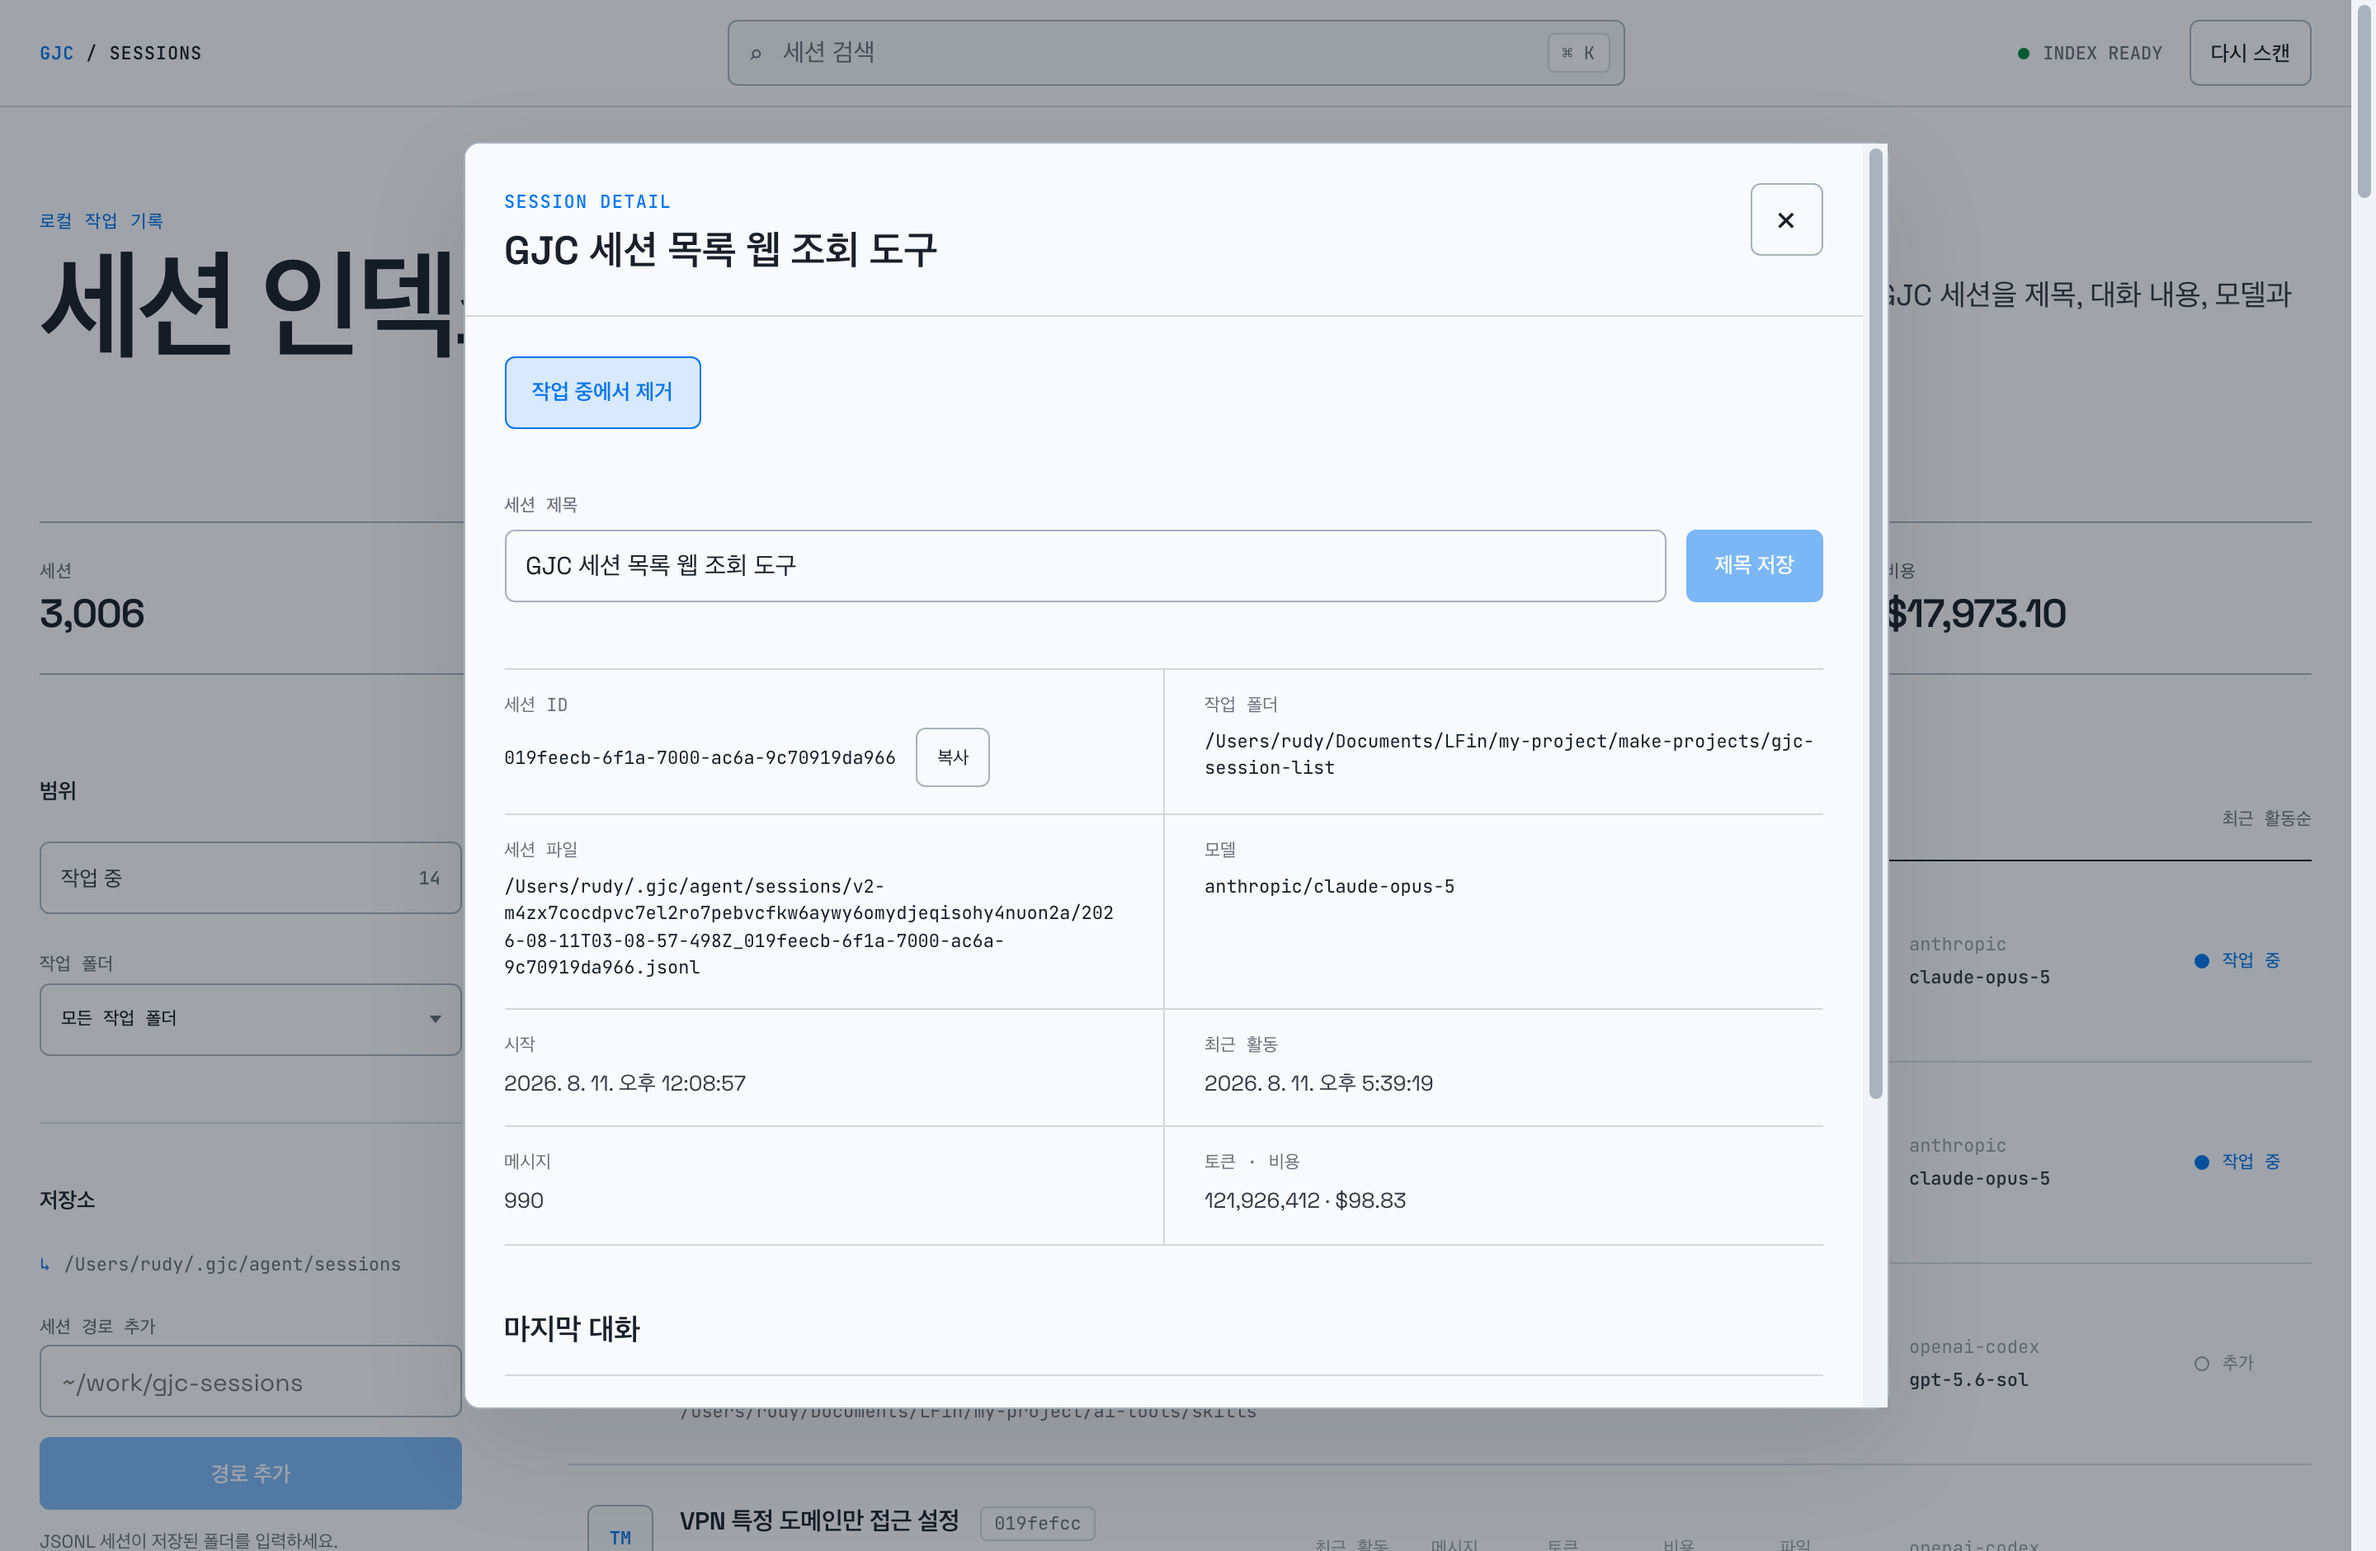
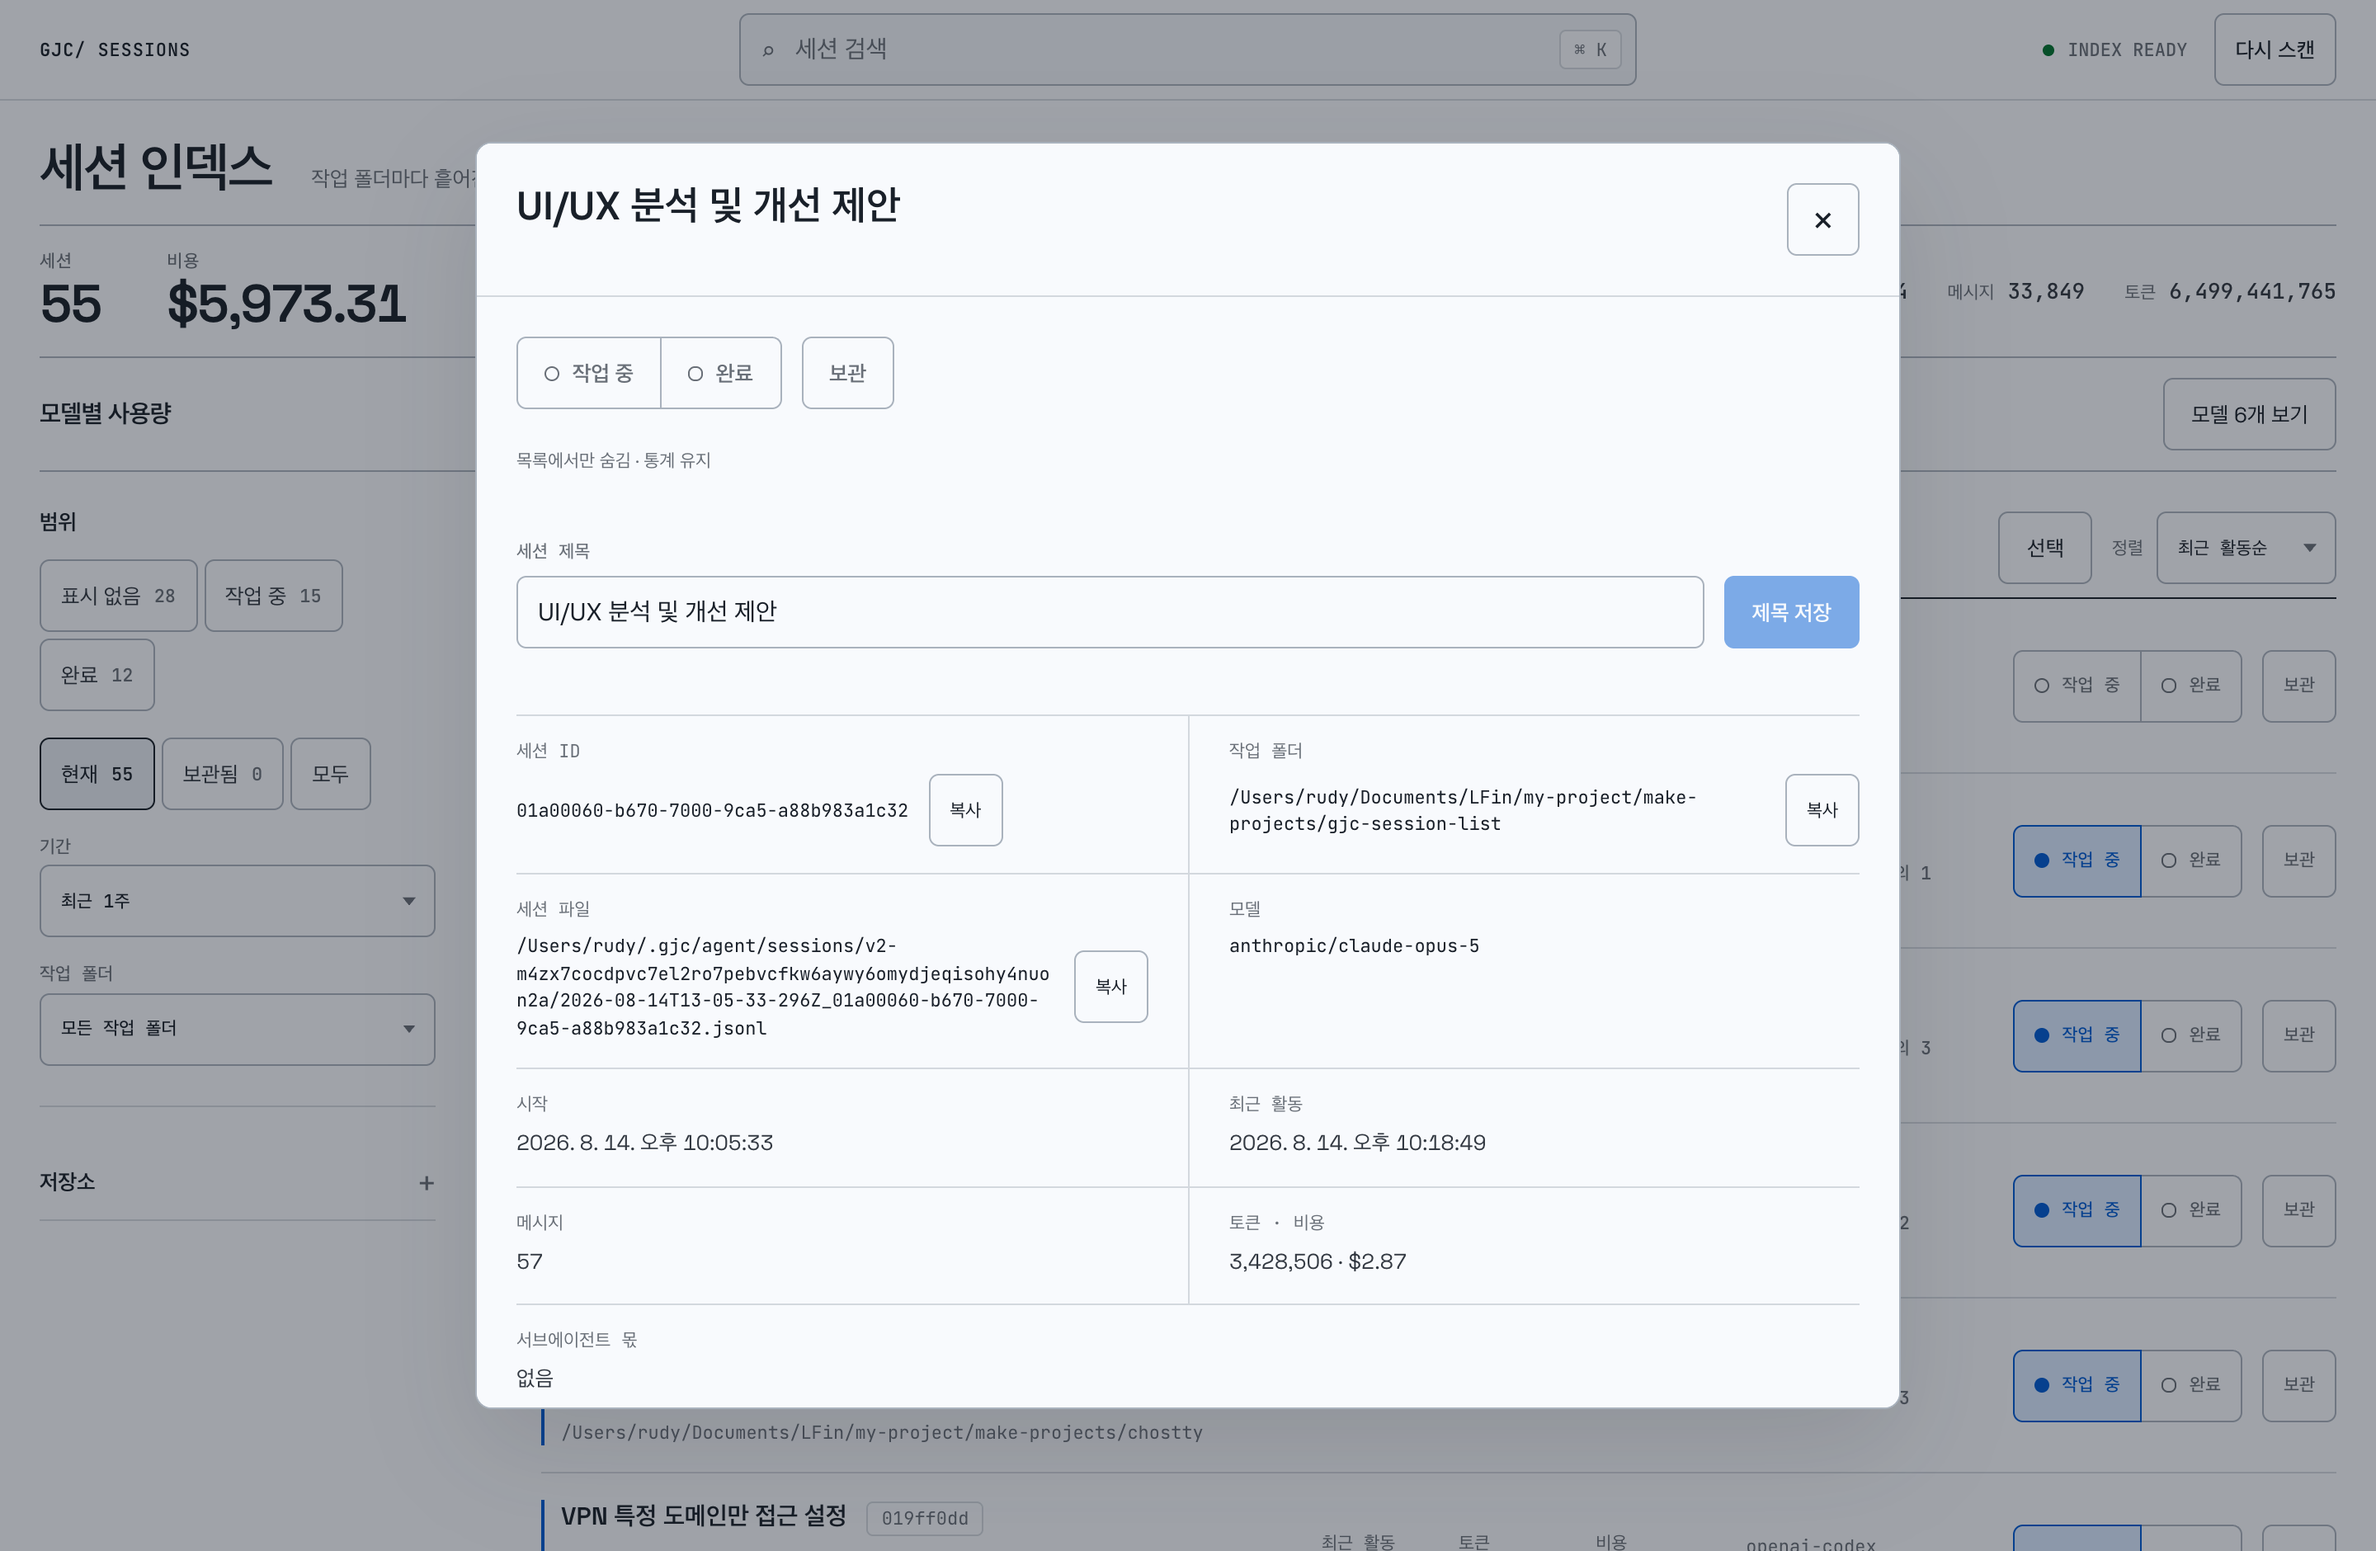
docs: 바뀐 화면과 모델별 세션 모달을 적는다
"기여 세션 보기를 펼치면"은 더 이상 맞지 않는다. 세션 보기 버튼과 모달,
행에서 세션 상세로 넘어가는 흐름으로 고쳤다. 보관 범위 칩과 필터 초기화,
선택 모드로 하는 일괄 보관을 추가로 적는다.

스크린샷 세 장은 재설계 전 화면이라 다시 찍었다.

diff --git a/README.md b/README.md
@@ -14,7 +14,9 @@
 
 기본으로 **최근 1주**만 봅니다. 사이드바 기간 드롭다운으로 오늘·3일·1주·1개월·3개월·전체를 고르거나, 직접 지정으로 시작·종료 날짜를 잡습니다. 위 통계와 작업 폴더 목록, 상태 칩 숫자도 고른 기간을 따릅니다.
 
-통계 아래 **모델별 사용량** 은 같은 기간의 토큰을 모델로 쪼갠 표입니다. 토큰·비중·비용·응답 수·세션 수를 모델마다 보여 줍니다. 모델 행의 **기여 세션 보기** 를 펼치면 그 모델을 실제로 쓴 세션과 각 세션의 비중·토큰·비용·작업 미리보기를 확인할 수 있습니다.
+통계 아래 **모델별 사용량** 은 같은 기간의 토큰을 모델로 쪼갠 표입니다. 인덱스가 첫 화면을 차지하도록 기본은 접혀 있고, **모델 N개 보기** 로 펼칩니다. 토큰·비중·비용·응답 수·세션 수를 모델마다 보여 줍니다.
+
+모델 행의 **세션 보기** 를 누르면 그 모델을 쓴 세션이 모달로 열립니다. 세션마다 비중·토큰·비용과 작업 미리보기, 상태 표시를 보여 줍니다. 행을 누르면 모달을 갈아끼우며 그 세션 상세로 넘어가고, 상세를 닫으면 눌렀던 모델 행으로 돌아옵니다.
 
 세션 헤더의 모델이 아니라 **응답 메시지에 적힌 모델** 로 나눕니다. 세션 하나가 도중에 모델을 갈아탉니다. 서브에이전트는 대개 다른 모델을 씁니다. 그래서 세션 파일 옆 아티팩트 폴더의 서브에이전트 전사본까지 읽어 그 세션의 몫으로 더합니다. 상단 토큰·비용 통계와 목록의 세션별 수치도 같습니다. 이 저장소에서는 서브에이전트 몫이 전체 토큰의 28%였습니다. 본문만 읽으면 아예 보이지 않는 모델도 두 개 더 나왔습니다.
 
@@ -24,7 +26,11 @@
 
 사이드바 상태 칩은 여러 개를 함께 고를 수 있습니다. `표시 없음` 과 `작업 중` 을 같이 고르면 완료만 빠집니다. 아무것도 고르지 않으면 전부 보입니다. 칩 숫자는 나머지 조건을 적용한 뒤의 개수라, 누르면 그만큼 나옵니다. 표시 자체는 세션 원본이 아니라 별도 설정 파일에 저장합니다.
 
-보관 직후에는 30초 동안 되돌릴 수 있으며, 되돌리면 권위 목록을 처음부터 다시 불러옵니다. 여러 행을 골라 한 번에 최대 200개까지 보관할 수 있습니다.
+바로 아래 `현재` · `보관됨` · `모두` 칩이 보관 범위를 정합니다. 상태와 같은 칩 문법이라 걸러보는 방법을 따로 외우지 않아도 됩니다. 검색어·상태·보관 범위·기간·작업 폴더 중 하나라도 걸려 있으면 칩 아래에 **필터 초기화** 가 나타나 한 번에 해제합니다.
+
+보관 직후에는 30초 동안 되돌릴 수 있으며, 되돌리면 권위 목록을 처음부터 다시 불러옵니다.
+
+여러 개를 한 번에 보관하려면 목록 오른쪽의 **선택** 을 켭니다. 그때만 행에 체크박스가 붙고 일괄 보관 줄이 뜨며, 한 번에 최대 200개까지 처리합니다. 보관은 되돌릴 수 있는 동작이라 확인 단계를 두지 않고 바로 실행한 뒤 단건과 같은 30초 되돌리기를 줍니다.
 
 보관·상태·제목 변경 뒤에는 화면에 이미 쌓인 실제 행 수를 다음 페이지 오프셋으로 사용하고, 서버의 요약 전용 응답으로 결과 개수와 통계만 다시 확인합니다. 예상 개수와 서버 개수가 다르면 일부 행을 억지로 맞추지 않고 첫 페이지부터 다시 불러옵니다.
 
@@ -181,18 +187,18 @@ UI 좌측 **저장소 → 세션 경로 추가** 로 넣은 경로는 `~/.gjc/se
 | `PUT` | `/api/status/:id` | 상태 변경. 본문 `{ "status": "active" \| "done" \| "none" }` |
 | `PUT` | `/api/archive/:id` | 보관·복원. 본문 `{ "archived": true \| false }` |
 | `PUT` | `/api/archive` | 명시한 ID 일괄 보관·복원. 본문 `{ "ids": ["..."], "archived": true \| false }` (최대 200개·8,000바이트) |
-| `GET` | `/api/models/sessions` | 모델 기여 세션 지연 조회. `model`, `from`, `to`, `offset`, `limit`, `revision` |
+| `GET` | `/api/models/sessions` | 모델별 세션 지연 조회. `model`, `from`, `to`, `offset`, `limit`, `revision` |
 | `POST` | `/api/directories` | 세션 경로 추가. 본문 `{ "path": "..." }` |
 
 `/api/sessions` 응답의 `summary.models` 는 기간 안의 토큰·비용을 모델별로 나눈 배열입니다. 세션마다 붙는 `models` 는 그 세션 몫입니다. 둘 다 서브에이전트를 포함하며 세션·상단 합계도 같은 모델 버킷에서 계산합니다. 보관 필터는 목록 행만 바꾸고 기간 통계에는 영향을 주지 않습니다. 서브에이전트 몫만 따로 보려면 세션의 `subagentTokens` · `subagentCost` 를 쓰세요.
 
 목록의 `sort` 값은 세 값만 받으며 다른 값은 `400 invalid_sort`로 거부합니다. 일괄 보관은 필터를 서버에서 다시 해석하지 않고 요청의 ID만 처리합니다. 한 번의 설정 쓰기와 revision 변경으로 커밋하고, ID별 결과는 `changed`·`noop`·`not_found`로 돌려줍니다. 전부 `noop`이면 설정 파일과 revision을 바꾸지 않습니다.
 
-`/api/models/sessions` 는 모델 행을 펼칠 때만 호출합니다. 첫 페이지 응답의 `revision`을 다음 페이지에 다시 보내야 하며, 인덱스가 바뀐 옛 revision은 `409 stale_revision`으로 거부됩니다. 클라이언트는 옛 행과 새 행을 섞지 않습니다.
+`/api/models/sessions` 는 **세션 보기** 를 누를 때만 호출합니다. 첫 페이지 응답의 `revision`을 다음 페이지에 다시 보내야 하며, 인덱스가 바뀐 옛 revision은 `409 stale_revision`으로 거부됩니다. 클라이언트는 옛 행과 새 행을 섞지 않습니다.
 
-모델 기여 목록을 펼친 상태에서 revision이 바뀌면 기존 행을 즉시 버리지 않고 오래된 데이터로 표시하며 **새로 보기** 를 제공합니다. 새로 보기 전에는 더 불러오기와 행 변경 동작을 막습니다.
+모달을 열어 둔 상태에서 revision이 바뀌면 기존 행을 즉시 버리지 않고 오래된 데이터로 표시하며 **새로 보기** 를 제공합니다. 새로 보기 전에는 더 불러오기를 막습니다.
 
-각 기여 행에는 최대 160자의 작업 미리보기와 해당 모델 토큰에서 차지하는 비중을 표시합니다. 파일 경로, 전체 대화, 다른 모델 사용량과 세션 전체 합계는 이 지연 조회 응답에 넣지 않습니다.
+모달의 각 행에는 최대 160자의 작업 미리보기와 해당 모델 토큰에서 차지하는 비중을 표시합니다. 파일 경로, 전체 대화, 다른 모델 사용량과 세션 전체 합계는 이 지연 조회 응답에 넣지 않습니다. 그 내용이 필요하면 행을 눌러 세션 상세로 넘어갑니다.
 
 제목 변경과 삭제는 인덱싱이 끝난 뒤에만 받습니다 (진행 중이면 `409`).
 
@@ -202,7 +208,7 @@ UI 좌측 **저장소 → 세션 경로 추가** 로 넣은 경로는 `~/.gjc/se
 npm test
 ```
 
-`server.test.js` 는 임시 홈 디렉터리와 임시 세션 파일로 서버를 띄워 제목 변경, 보관·패싯·정렬, 모델 기여 조회, 잘못된 확인값 거부, 삭제 전 점검, 전체 사본 삭제와 설정 정리까지 실제 API로 확인합니다. 사용자의 실제 세션은 건드리지 않습니다.
+`server.test.js` 는 임시 홈 디렉터리와 임시 세션 파일로 서버를 띄워 제목 변경, 보관·패싯·정렬, 모델별 세션 조회, 잘못된 확인값 거부, 삭제 전 점검, 전체 사본 삭제와 설정 정리까지 실제 API로 확인합니다. 사용자의 실제 세션은 건드리지 않습니다.
 
 ## 구성
 
